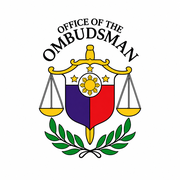
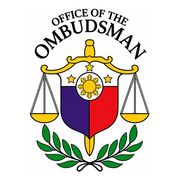
Add files via upload

Changed region(s): [[0.1667, 0.0278, 0.8333, 0.9722]]

diff --git a/index.html b/index.html
@@ -4,9 +4,9 @@
 <meta charset="utf-8">
 <meta name="viewport" content="width=device-width, initial-scale=1, viewport-fit=cover">
 <title>OMB Dashboard</title>
-<link rel="apple-touch-icon" sizes="180x180" href="./apple-touch-icon.png?v=3">
-<link rel="icon" href="./icon-192.png?v=3" type="image/png" sizes="192x192">
-<link rel="manifest" href="./manifest.webmanifest?v=3">
+<link rel="apple-touch-icon" sizes="180x180" href="./apple-touch-icon-large.png?v=4">
+<link rel="icon" href="./icon-192-large.png?v=4" type="image/png" sizes="192x192">
+<link rel="manifest" href="./manifest.webmanifest?v=4">
 <meta name="apple-mobile-web-app-title" content="OMB Dashboard">
 <meta name="apple-mobile-web-app-capable" content="yes">
 <meta name="apple-mobile-web-app-status-bar-style" content="default">
@@ -17,7 +17,7 @@
 </head>
 <body>
 <header>
-<img src="./icon-192.png?v=3" alt="Office of the Ombudsman seal">
+<img src="./icon-192-large.png?v=4" alt="Office of the Ombudsman seal">
 <h1>OMB Dashboard</h1>
 <p>Office of the Ombudsman · MFC</p>
 </header>
